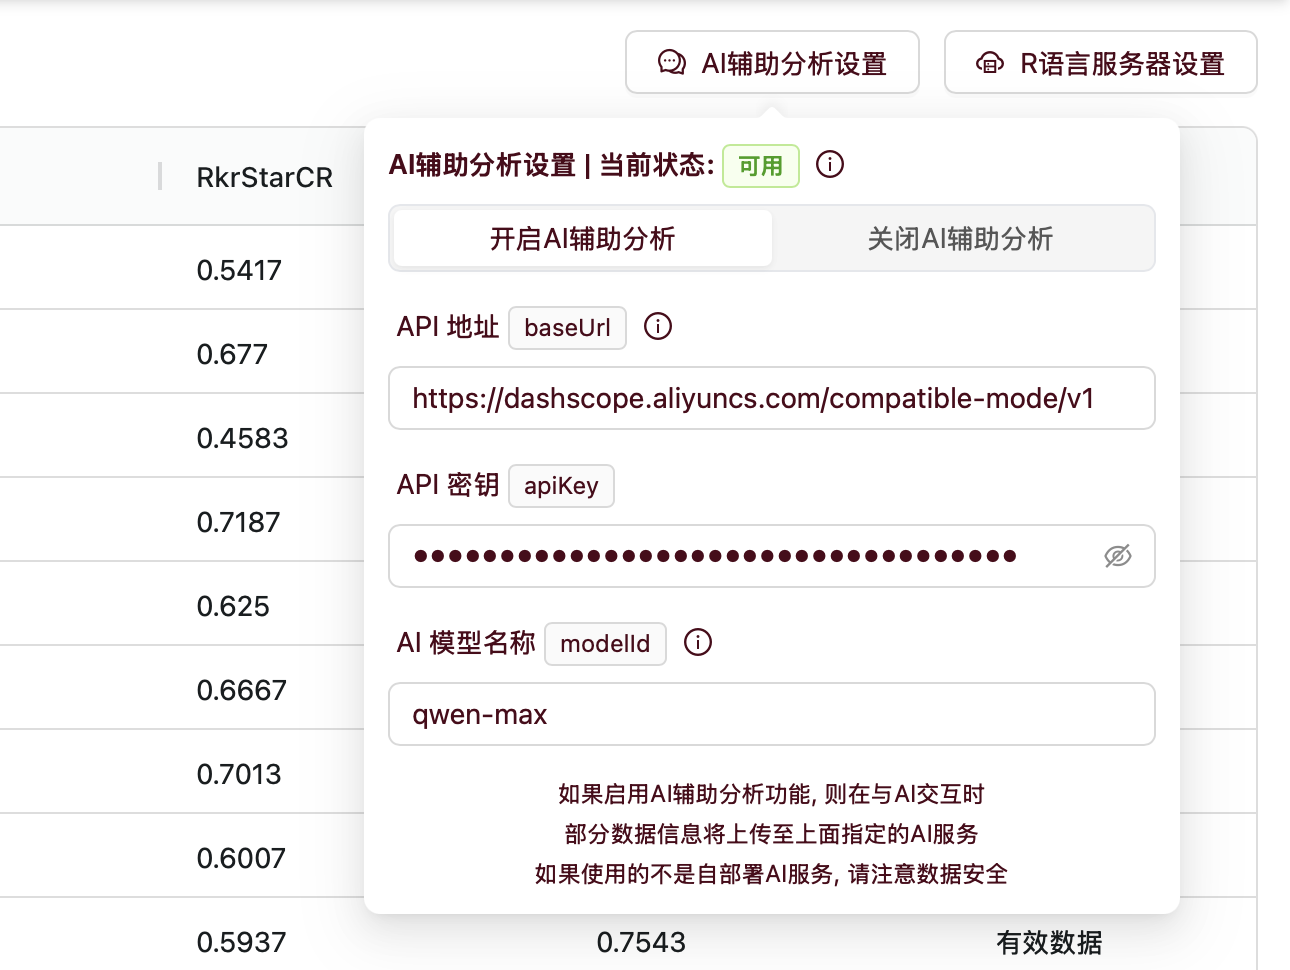
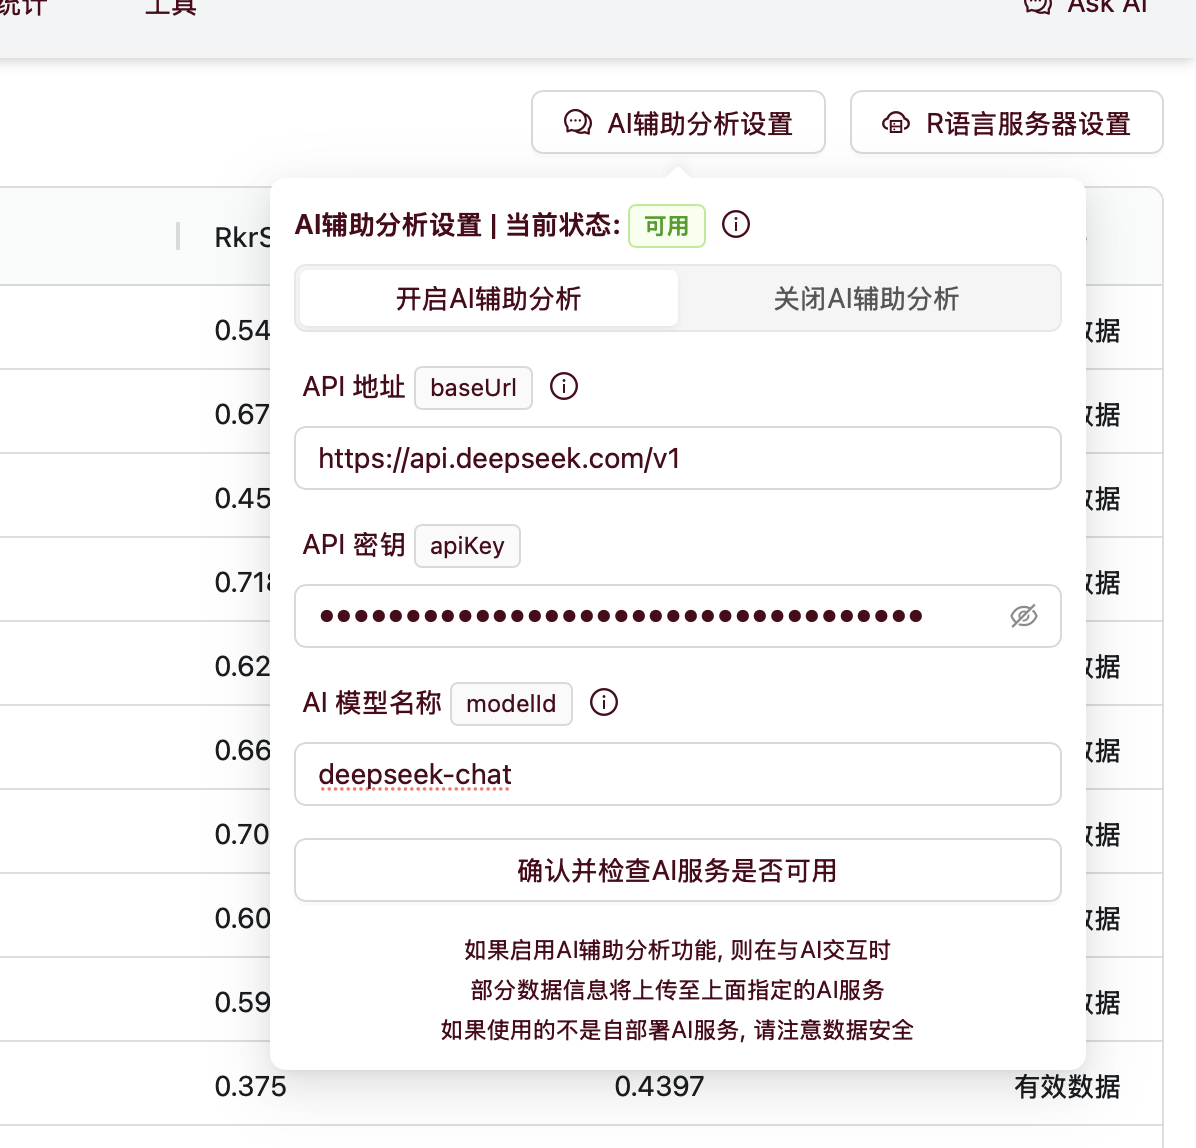
fix: 修改AI助手验证方法, 减少和明确错误

diff --git a/src/components/data/PreviewData.tsx b/src/components/data/PreviewData.tsx
@@ -18,7 +18,7 @@ import {
 	Select,
 	Tag,
 } from 'antd'
-import { useRef } from 'react'
+import { useRef, useState } from 'react'
 import { flushSync } from 'react-dom'
 import { useAssistant } from '../../lib/hooks/useAssistant'
 import { useData } from '../../lib/hooks/useData'
@@ -169,10 +169,7 @@ export function PreviewData() {
 									content={
 										<div className='flex flex-col gap-1'>
 											<div>
-												在输入全部信息后, PsychPen 会自动验证 AI 服务是否可用
-											</div>
-											<div>
-												如果数秒后仍未显示可用, 请检查网络连接和信息是否填写正确
+												在输入全部信息后, 请点击确认, 系统将自动检查AI服务是否可用
 											</div>
 										</div>
 									}
@@ -221,16 +218,24 @@ export function PreviewData() {
 }
 
 function ConfigAI() {
-	const {
-		_DataView_setOpenaiEndpoint,
-		_DataView_setOpenaiApiKey,
-		_DataView_setModel,
-		_DataView_setOpenaiEnable,
-		openaiEndpoint,
-		openaiApiKey,
-		model,
-		openaiEnable,
-	} = useAssistant()
+	const _DataView_setModel = useAssistant((state) => state._DataView_setModel)
+	const _DataView_setOpenaiEndpoint = useAssistant(
+		(state) => state._DataView_setOpenaiEndpoint,
+	)
+	const _DataView_setOpenaiApiKey = useAssistant(
+		(state) => state._DataView_setOpenaiApiKey,
+	)
+	const _DataView_setOpenaiEnable = useAssistant(
+		(state) => state._DataView_setOpenaiEnable,
+	)
+	const model = useAssistant((state) => state.model)
+	const openaiEndpoint = useAssistant((state) => state.openaiEndpoint)
+	const openaiApiKey = useAssistant((state) => state.openaiApiKey)
+	const openaiEnable = useAssistant((state) => state.openaiEnable)
+	const _DataView_validate = useAssistant((state) => state._DataView_validate)
+	const _DataView_clearAI = useAssistant((state) => state._DataView_clearAI)
+	const messageApi = useStates((state) => state.messageApi)
+	const [disabled, setDisabled] = useState<boolean>(false)
 	enum Open {
 		TRUE = '开启AI辅助分析',
 		FALSE = '关闭AI辅助分析',
@@ -243,7 +248,10 @@ function ConfigAI() {
 					className='border dark:border-[#424242]'
 					defaultValue={openaiEnable ? Open.TRUE : Open.FALSE}
 					options={[Open.TRUE, Open.FALSE]}
-					onChange={(value) => _DataView_setOpenaiEnable(value === Open.TRUE)}
+					onChange={(value) => {
+						_DataView_setOpenaiEnable(value === Open.TRUE)
+						value === Open.FALSE && _DataView_clearAI()
+					}}
 				/>
 			</div>
 			<p className='w-full text-left pl-1'>
@@ -277,7 +285,10 @@ function ConfigAI() {
 					placeholder='请输入OpenAI兼容API端点 (baseUrl)'
 					defaultValue={openaiEndpoint}
 					disabled={!openaiEnable}
-					onChange={(e) => _DataView_setOpenaiEndpoint(e.target.value ?? '')}
+					onChange={(e) => {
+						_DataView_setOpenaiEndpoint(e.target.value ?? '')
+						_DataView_clearAI()
+					}}
 				/>
 			</div>
 			<p className='w-full text-left pl-1'>
@@ -288,7 +299,10 @@ function ConfigAI() {
 					placeholder='请输入OpenAI兼容API密钥 (apiKey)'
 					defaultValue={openaiApiKey}
 					disabled={!openaiEnable}
-					onChange={(e) => _DataView_setOpenaiApiKey(e.target.value ?? '')}
+					onChange={(e) => {
+						_DataView_setOpenaiApiKey(e.target.value ?? '')
+						_DataView_clearAI()
+					}}
 				/>
 			</div>
 			<p className='w-full text-left pl-1'>
@@ -324,8 +338,31 @@ function ConfigAI() {
 					placeholder='请输入AI模型名称 (modelId)'
 					defaultValue={model}
 					disabled={!openaiEnable}
-					onChange={(e) => _DataView_setModel(e.target.value ?? '')}
+					onChange={(e) => {
+						_DataView_setModel(e.target.value ?? '')
+						_DataView_clearAI()
+					}}
 				/>
+			</div>
+			<div className='mb-2'>
+				<Button
+					block
+					loading={disabled}
+					disabled={!openaiEnable || !openaiEndpoint || !openaiApiKey || !model}
+					onClick={async () => {
+						try {
+							flushSync(() => setDisabled(true))
+							await _DataView_validate()
+							messageApi?.success('AI辅助分析开启成功')
+						} catch (e) {
+							messageApi?.error(`AI辅助分析开启失败: ${e instanceof Error ? e.message : e}`)
+						} finally {
+							setDisabled(false)
+						}
+					}}
+				>
+					确认并检查AI服务是否可用
+				</Button>
 			</div>
 			<div className='flex flex-col gap-1'>
 				<p className='w-full text-xs text-center px-2'>
@@ -343,14 +380,14 @@ function ConfigAI() {
 }
 
 function ConfigR() {
-	const {
-		_DataView_setRurl,
-		_DataView_setRpassword,
-		_DataView_setRenable,
-		Rurl,
-		Rpassword,
-		Renable,
-	} = useRemoteR()
+	const _DataView_setRurl = useRemoteR((state) => state._DataView_setRurl)
+	const _DataView_setRpassword = useRemoteR(
+		(state) => state._DataView_setRpassword,
+	)
+	const _DataView_setRenable = useRemoteR((state) => state._DataView_setRenable)
+	const Rurl = useRemoteR((state) => state.Rurl)
+	const Rpassword = useRemoteR((state) => state.Rpassword)
+	const Renable = useRemoteR((state) => state.Renable)
 	enum Open {
 		TRUE = '开启R语言服务器',
 		FALSE = '关闭R语言服务器',

diff --git a/src/lib/hooks/useAssistant.ts b/src/lib/hooks/useAssistant.ts
@@ -11,10 +11,10 @@ type AssistantState = {
 	_DataView_setOpenaiEndpoint: (endpoint: string) => void
 	_DataView_setOpenaiApiKey: (apiKey: string) => void
 	_DataView_setOpenaiEnable: (enable: boolean) => void
-}
 
-let timer: number | null = null
-const delay = 1000
+	_DataView_clearAI: () => void
+	_DataView_validate: () => Promise<void>
+}
 
 const openaiEndpoint = localStorage.getItem('openaiEndpoint') ?? ''
 const openaiApiKey = localStorage.getItem('openaiApiKey') ?? ''
@@ -26,95 +26,68 @@ async function getAI(
 	endpoint: string,
 	apiKey: string,
 	model: string,
-): Promise<OpenAI | null> {
-	try {
-		if (!enable || !endpoint || !apiKey || !model) {
-			return null
-		}
-		const ai = new OpenAI({
-			baseURL: endpoint,
-			apiKey,
-			dangerouslyAllowBrowser: true,
-		})
-		const models = (await ai.models.list()).data
-		if (!models.some((m) => m.id === model)) {
-			return null
-		}
-		return ai
-	} catch {
-		return null
+): Promise<OpenAI> {
+	if (!enable) {
+		throw new Error('请先开启AI辅助分析')
 	}
+	if (!endpoint) {
+		throw new Error('请填写AI服务地址')
+	}
+	if (!apiKey) {
+		throw new Error('请填写AI服务密钥')
+	}
+	if (!model) {
+		throw new Error('请填写AI模型ID')
+	}
+	const ai = new OpenAI({
+		baseURL: endpoint,
+		apiKey,
+		dangerouslyAllowBrowser: true,
+	})
+	const models = await ai.models.list()
+	if (!models.data.some((m) => m.id === model)) {
+		throw new Error('AI模型ID不正确')
+	}
+	return ai
+}
+
+let ai: OpenAI | null = null
+try {
+	ai = await getAI(openaiEnable, openaiEndpoint, openaiApiKey, openaiModelName)
+} catch {
+	ai = null
 }
 
 export const useAssistant = create<AssistantState>()((set, get) => {
-	getAI(openaiEnable, openaiEndpoint, openaiApiKey, openaiModelName)
-		.then((ai) => {
-			set({ ai })
-		})
-		.catch(() => {})
 	return {
+		_DataView_validate: async () => {
+			const { openaiEnable, openaiEndpoint, openaiApiKey, model } = get()
+			const ai = await getAI(openaiEnable, openaiEndpoint, openaiApiKey, model)
+			set({ ai })
+		},
+		_DataView_clearAI: () => {
+			set({ ai: null })
+		},
 		openaiEndpoint,
 		openaiApiKey,
 		openaiEnable,
 		model: openaiModelName,
-		ai: null,
+		ai,
 		_DataView_setOpenaiEndpoint: (endpoint) => {
 			localStorage.setItem('openaiEndpoint', endpoint)
 			set({ openaiEndpoint: endpoint })
-			if (timer) {
-				clearTimeout(timer)
-			}
-			const { openaiEnable, openaiApiKey, model } = get()
-			timer = setTimeout(async () => {
-				const ai = await getAI(
-					openaiEnable,
-					endpoint,
-					openaiApiKey,
-					model,
-				).catch(() => null)
-				set({ ai })
-			}, delay)
 		},
 		_DataView_setOpenaiApiKey: (apiKey) => {
 			localStorage.setItem('openaiApiKey', apiKey)
 			set({ openaiApiKey: apiKey })
-			if (timer) {
-				clearTimeout(timer)
-			}
-			const { openaiEnable, openaiEndpoint, model } = get()
-			timer = setTimeout(async () => {
-				const ai = await getAI(openaiEnable, openaiEndpoint, apiKey, model)
-				set({ ai })
-			}, delay)
 		},
 		_DataView_setOpenaiEnable: (enable) => {
 			localStorage.setItem('openaiEnable', enable ? 'true' : 'false')
 			set({ openaiEnable: enable })
-			if (timer) {
-				clearTimeout(timer)
-			}
-			const { openaiEndpoint, openaiApiKey, model } = get()
-			timer = setTimeout(async () => {
-				const ai = await getAI(enable, openaiEndpoint, openaiApiKey, model)
-				set({ ai })
-			}, delay)
 		},
 		_DataView_setModel: (modelName) => {
 			localStorage.setItem('openaiModelName', modelName)
 			set({ model: modelName })
-			if (timer) {
-				clearTimeout(timer)
-			}
-			const { openaiEnable, openaiEndpoint, openaiApiKey } = get()
-			timer = setTimeout(async () => {
-				const ai = await getAI(
-					openaiEnable,
-					openaiEndpoint,
-					openaiApiKey,
-					modelName,
-				)
-				set({ ai })
-			}, delay)
 		},
 	}
 })

diff --git a/README.md b/README.md
@@ -206,7 +206,7 @@ curl http://localhost:8000/execute -X POST -d '{"password": "xxx", "code": "1 + 
 
 PsychPen 创新性地引入了 AI 辅助分析功能, 可以让 AI 助手基于你的数据和需求, 针对性地给出建议或直接替你操作 PsychPen 完成变量处理、统计分析和图表绘制
 
-PsychPen 支持所有实现了 [function calling](https://platform.openai.com/docs/guides/function-calling) 并兼容 OpenAI API 规范的大语言模型 (如 [DeepSeek-V3](https://platform.deepseek.com/)、[GPT-4o](https://platform.openai.com/docs/guides)、[Qwen-max](https://bailian.console.aliyun.com/#/model-market)), 你只需根据你所用的 AI 模型提供商的使用文档, 在右上角的 `AI辅助分析设置` 中点击 `开启AI辅助分析` 按钮, 并填写 `baseUrl`、`apiKey`、`modelId` 等参数, 即可点击页面右上角的 `Ask AI` 按钮, 与 AI 助手进行交互
+PsychPen 支持所有实现了 [function calling](https://platform.openai.com/docs/guides/function-calling) 并兼容 OpenAI API 规范的大语言模型 (如 [DeepSeek-V3](https://platform.deepseek.com/)、[GPT-4o](https://platform.openai.com/docs/guides)、[Qwen-max](https://bailian.console.aliyun.com/#/model-market)), 你只需根据你所用的 AI 模型提供商的使用文档, 在右上角的 `AI辅助分析设置` 中点击 `开启AI辅助分析` 按钮, 并填写 `baseUrl`、`apiKey`、`modelId` 等参数, 之后点击 `确认` 按钮, 即可点击页面右上角的 `Ask AI` 按钮, 与 AI 助手进行交互
 
 ![](readme/data-7.png)
 
